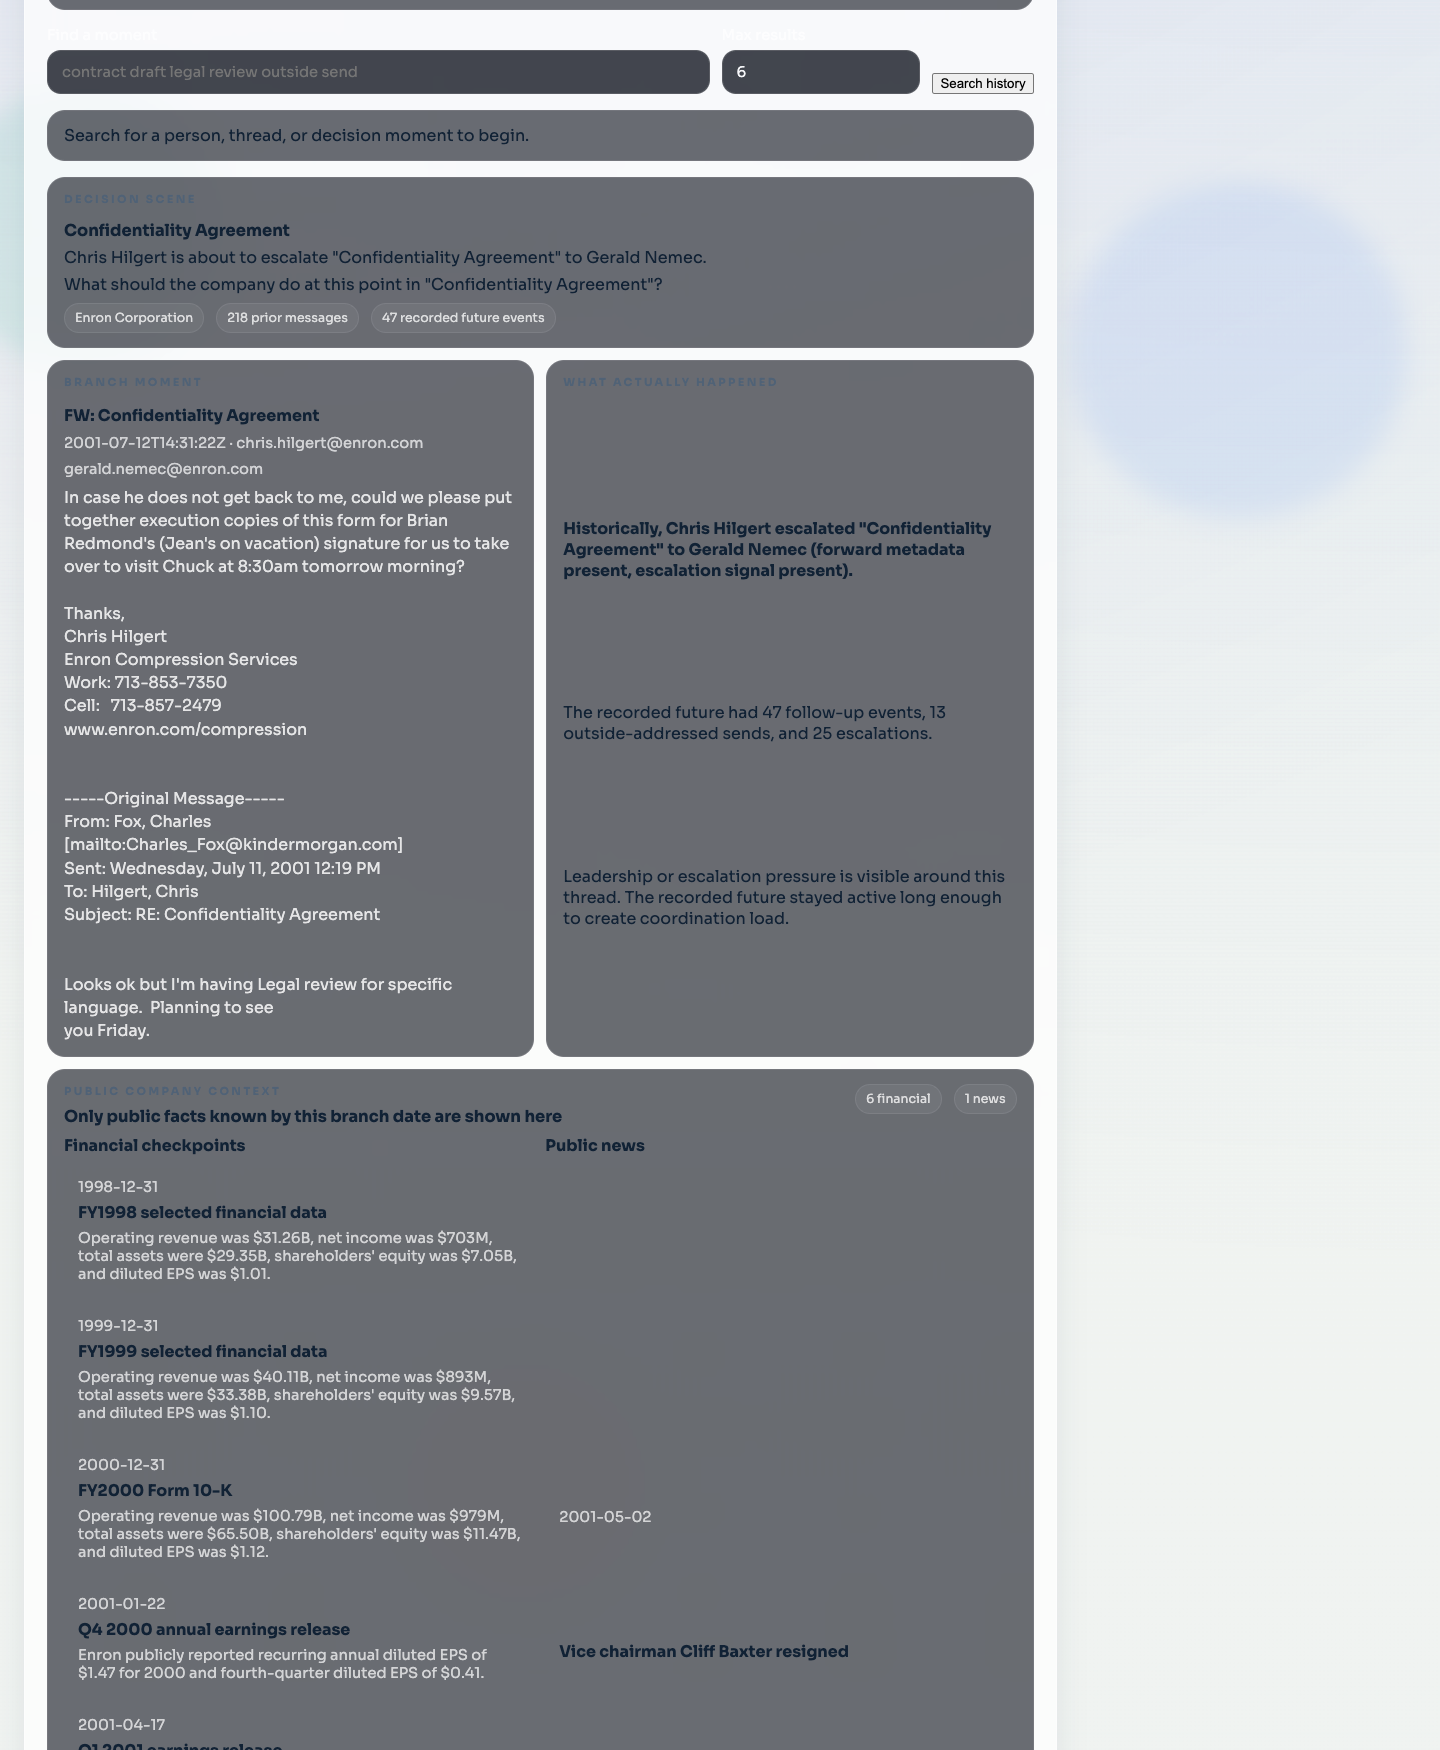
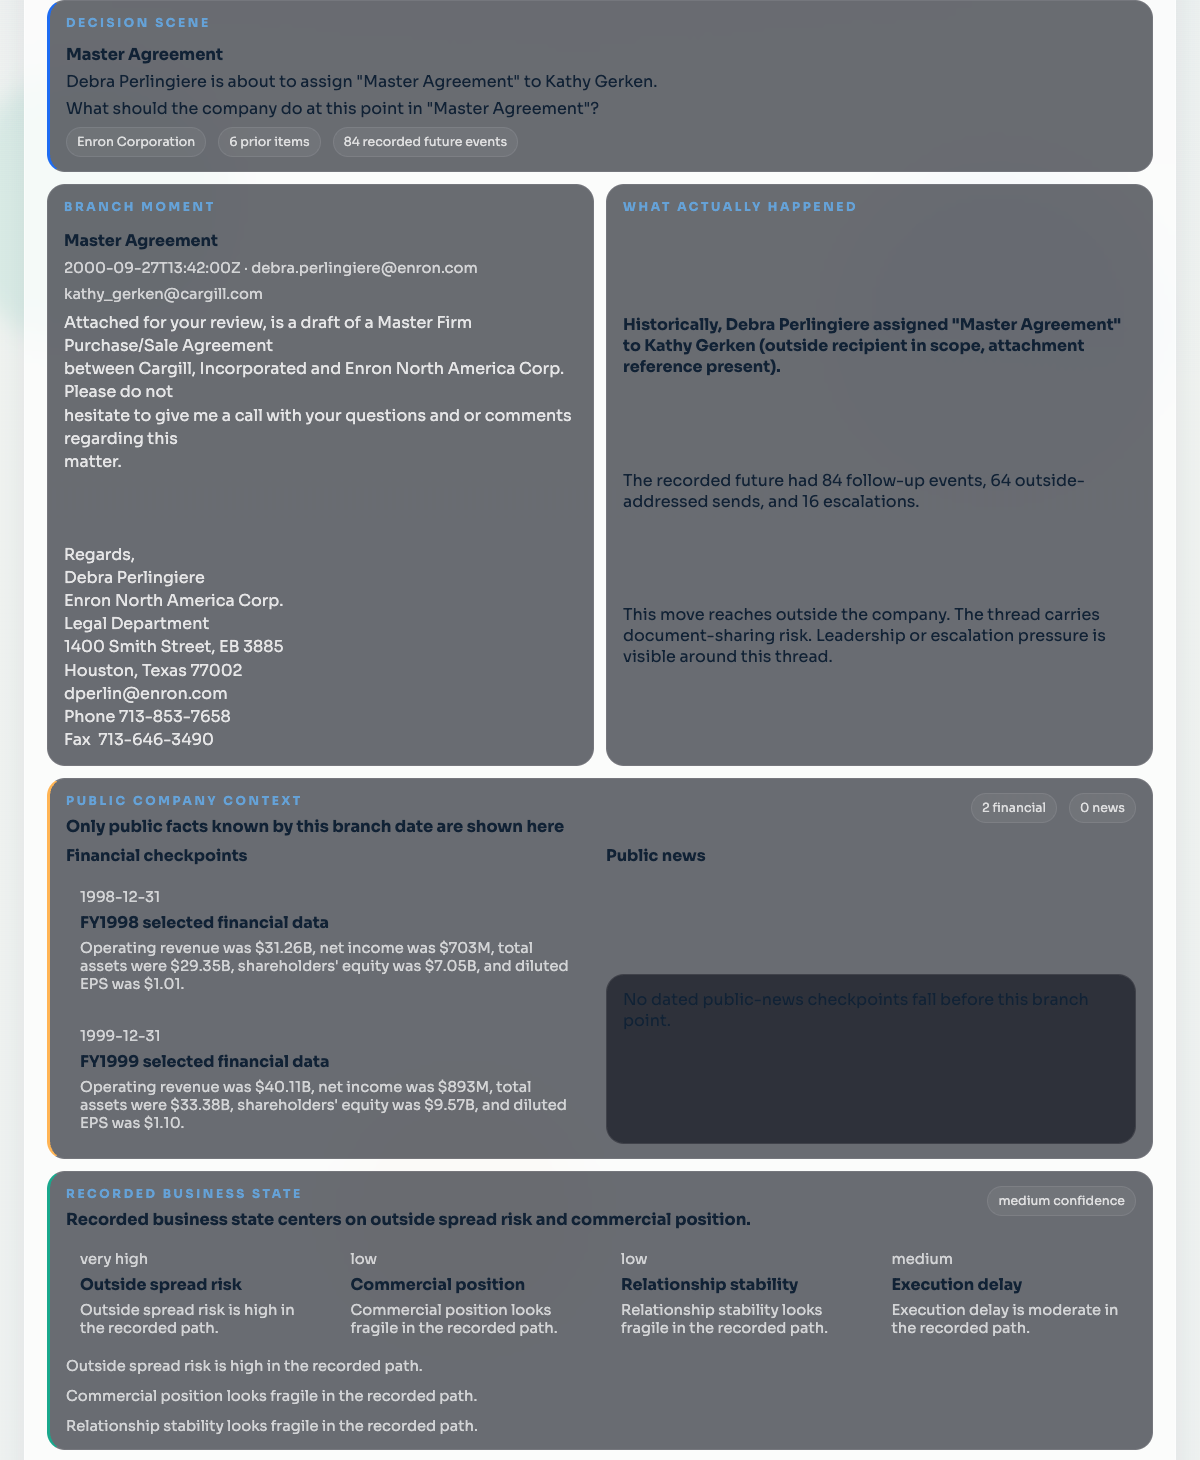
fix: replace mismatched Enron screenshots and polish what-if UI
The decision-scene screenshot showed the wrong case (Confidentiality
Agreement instead of Master Agreement). Retake from the shipped
workspace so the README visuals match the text and data.

UI design improvements for screenshot quality:
- Color-coded business impacts (teal for better, coral for worse)
- Colored left-border accents to distinguish panel types
- Stronger eyebrow labels in what-if panels
- Top-border accents on the three-column summary cards
- Collapsible business-change details in ranked candidate cards

README changes:
- Lead with the decision scene instead of the search-results GIF
- Add the public-context screenshot inline at the right narrative beat
- Descriptive alt text on all images

diff --git a/vei/ui/static/studio-whatif.js b/vei/ui/static/studio-whatif.js
@@ -102,7 +102,7 @@ function renderWhatIfPublicContext(context) {
     ? context.public_news_events
     : [];
   return `
-    <div class="whatif-scene-panel">
+    <div class="whatif-scene-panel is-public-context">
       <div class="whatif-thread-head">
         <div>
           <p class="eyebrow">Public Company Context</p>
@@ -232,7 +232,7 @@ function renderWhatIfBusinessAssessment(assessment) {
     return "";
   }
   return `
-    <div class="whatif-scene-panel">
+    <div class="whatif-scene-panel is-business-state">
       <div class="whatif-thread-head">
         <div>
           <p class="eyebrow">Recorded Business State</p>
@@ -283,8 +283,13 @@ function renderWhatIfBusinessChange(change, { title = "Predicted Business Change
   if (!change.summary && !impacts.length && !consequences.length) {
     return "";
   }
+  function effectClass(effect) {
+    if (effect === "better") return "is-better";
+    if (effect === "worse") return "is-worse";
+    return "";
+  }
   return `
-    <div class="whatif-scene-panel">
+    <div class="whatif-scene-panel is-business-change">
       <div class="whatif-thread-head">
         <div>
           <p class="eyebrow">${escapeHtml(title)}</p>
@@ -300,7 +305,7 @@ function renderWhatIfBusinessChange(change, { title = "Predicted Business Change
           .slice(0, 4)
           .map(
             (impact) => `
-              <div class="whatif-business-item">
+              <div class="whatif-business-item ${effectClass(impact.effect)}">
                 <span class="whatif-result-meta">${escapeHtml(impact.effect || "flat")} · ${escapeHtml(impact.magnitude || "flat")}</span>
                 <strong>${escapeHtml(impact.label || impact.state_id || "Business state")}</strong>
                 <span class="whatif-result-caption">${escapeHtml(impact.summary || "")}</span>
@@ -897,12 +902,15 @@ function renderWhatIfStudio() {
                 <span>${escapeHtml(candidate.reason || "")}</span>
                 <span>Score ${escapeHtml(score)} across ${escapeHtml(candidate.rollout_count || 0)} rollouts</span>
                 <span>Exposure ${escapeHtml(candidate.average_outcome_signals?.exposure_risk ?? "n/a")} · Delay ${escapeHtml(candidate.average_outcome_signals?.delay_risk ?? "n/a")} · Relationship ${escapeHtml(candidate.average_outcome_signals?.relationship_protection ?? "n/a")}</span>
-                ${renderWhatIfBusinessChange(candidate.business_state_change, { title: "Forecasted business change" })}
-                ${
-                  shadowScore != null
-                    ? `<span>Shadow ${escapeHtml(candidate.shadow?.backend || "forecast")} ${escapeHtml(shadowScore)}</span>`
-                    : ""
-                }
+                <details class="whatif-ranked-details">
+                  <summary>Show forecasted change</summary>
+                  ${renderWhatIfBusinessChange(candidate.business_state_change, { title: "Forecasted business change" })}
+                  ${
+                    shadowScore != null
+                      ? `<span>Shadow ${escapeHtml(candidate.shadow?.backend || "forecast")} ${escapeHtml(shadowScore)}</span>`
+                      : ""
+                  }
+                </details>
               </div>
             `;
           })
@@ -939,20 +947,20 @@ function renderWhatIfStudio() {
   const baselineExternalCount = baseline.forecast?.future_external_event_count ?? 0;
   resultNode.innerHTML = `
     <div class="whatif-summary-grid">
-      <div class="whatif-summary-card">
+      <div class="whatif-summary-card is-baseline">
         <p class="eyebrow">Historical baseline</p>
         <strong>${escapeHtml(branch.subject || branch.thread_id || branch.event_id || experiment.label)}</strong>
         <span>${escapeHtml(branch.actor_id || "")} -> ${escapeHtml(branchRecipients || "")}</span>
         <span>${escapeHtml(baseline.delivered_event_count || 0)} delivered baseline events</span>
         <span>${escapeHtml(baselineExternalCount)} outside-addressed events in the historical path</span>
       </div>
-      <div class="whatif-summary-card">
+      <div class="whatif-summary-card is-llm-path">
         <p class="eyebrow">LLM alternate path</p>
         <strong>${escapeHtml(llm?.status || "not run")}</strong>
         <span>${escapeHtml(llm?.summary || "No LLM branch for this run.")}</span>
         <span>${escapeHtml(llm?.delivered_event_count || 0)} alternate messages delivered</span>
       </div>
-      <div class="whatif-summary-card">
+      <div class="whatif-summary-card is-forecast">
         <p class="eyebrow">Learned forecast</p>
         <strong>${escapeHtml(forecast?.backend || "not run")}</strong>
         <span>${escapeHtml(forecast?.summary || "No forecast for this run.")}</span>

diff --git a/vei/ui/static/styles.css b/vei/ui/static/styles.css
@@ -2613,6 +2613,19 @@ body.developer-mode .studio-nav-button.developer-only {
   gap: 8px;
 }
 
+.whatif-scene-hero {
+  border-left: 3px solid var(--accent-bright);
+}
+
+.whatif-scene-panel.is-public-context {
+  border-left: 3px solid var(--accent-gold);
+}
+
+.whatif-scene-panel.is-business-state,
+.whatif-scene-panel.is-business-change {
+  border-left: 3px solid var(--accent-teal);
+}
+
 .whatif-scene-copy {
   display: grid;
   gap: 6px;
@@ -2649,6 +2662,16 @@ body.developer-mode .studio-nav-button.developer-only {
   display: grid;
   gap: 6px;
   padding: 12px 14px;
+}
+
+.whatif-business-item.is-better {
+  border-left: 3px solid rgba(26, 168, 141, 0.6);
+  background: rgba(26, 168, 141, 0.06);
+}
+
+.whatif-business-item.is-worse {
+  border-left: 3px solid rgba(255, 109, 94, 0.6);
+  background: rgba(255, 109, 94, 0.06);
 }
 
 .whatif-business-grid {
@@ -2755,6 +2778,45 @@ body.developer-mode .studio-nav-button.developer-only {
 .whatif-summary-card.is-picked {
   border-color: rgba(255, 180, 84, 0.35);
   box-shadow: 0 0 0 1px rgba(255, 180, 84, 0.14) inset;
+}
+
+.whatif-summary-card.is-baseline {
+  border-top: 2px solid var(--accent-gold);
+}
+
+.whatif-summary-card.is-llm-path {
+  border-top: 2px solid var(--accent-bright);
+}
+
+.whatif-summary-card.is-forecast {
+  border-top: 2px solid var(--accent-teal);
+}
+
+.whatif-card .eyebrow {
+  font-size: 12px;
+  color: rgba(100, 170, 230, 0.88);
+}
+
+.whatif-ranked-details {
+  border: none;
+  background: none;
+  padding: 0;
+  margin-top: 4px;
+}
+
+.whatif-ranked-details summary {
+  cursor: pointer;
+  font-size: 0.88rem;
+  color: rgba(255, 255, 255, 0.55);
+  list-style: none;
+}
+
+.whatif-ranked-details summary::before {
+  content: "\25B8  ";
+}
+
+.whatif-ranked-details[open] summary::before {
+  content: "\25BE  ";
 }
 
 .whatif-advanced summary {

diff --git a/README.md b/README.md
@@ -81,23 +81,25 @@ vei ui serve \
 
 Open `http://127.0.0.1:3055`.
 
-![Enron historical what-if flow](docs/assets/enron-whatif/enron-whatif-flow.gif)
-
-![Enron decision scene with dated public context](docs/assets/enron-whatif/enron-decision-scene-top.png)
+![Decision scene for the Enron Master Agreement branch point, showing the branch moment, what actually happened, public company context, and recorded business state](docs/assets/enron-whatif/enron-decision-scene-top.png)
 
 Here is the exact story this example shows:
 
 1. VEI loads a real Enron branch point from the `Master Agreement` thread.
 2. The saved world contains 6 prior messages and 84 recorded future events on that case.
 3. The branch date is September 27, 2000, so the public-company slice shows the facts that were already public by that date: 2 financial checkpoints and 0 public news items.
+
+![Public company context sliced to the branch date, showing financial checkpoints and public news known before September 27, 2000](docs/assets/enron-whatif/enron-public-context.png)
+
 4. The real move is Debra Perlingiere sending a draft agreement outside Enron to `kathy_gerken@cargill.com`.
 5. The alternate move keeps the draft inside Enron, asks Gerald Nemec and Sara Shackleton for review, and holds the outside send.
 6. The saved continuation stays internal. The saved forecast keeps the same 84-event horizon, moves risk from `1.000` to `0.983`, and predicts `29` fewer outside sends.
+
+![Predicted business change comparing the historical baseline, the LLM alternate path, and the learned forecast](docs/assets/enron-whatif/enron-predicted-business-change.png)
+
 7. The ranked comparison turns that into a business choice: `Hold for internal review` ranks first at `0.351`, `Send a narrow status note` ranks second at `0.155`, and `Push for fast turnaround` falls to `-0.019`.
 
-![Enron predicted business change](docs/assets/enron-whatif/enron-predicted-business-change.png)
-
-![Enron ranked business comparison](docs/assets/enron-whatif/enron-ranked-comparison.png)
+![Ranked business comparison of three candidate moves scored against the recorded future](docs/assets/enron-whatif/enron-ranked-comparison.png)
 
 Useful files in that example:
 
